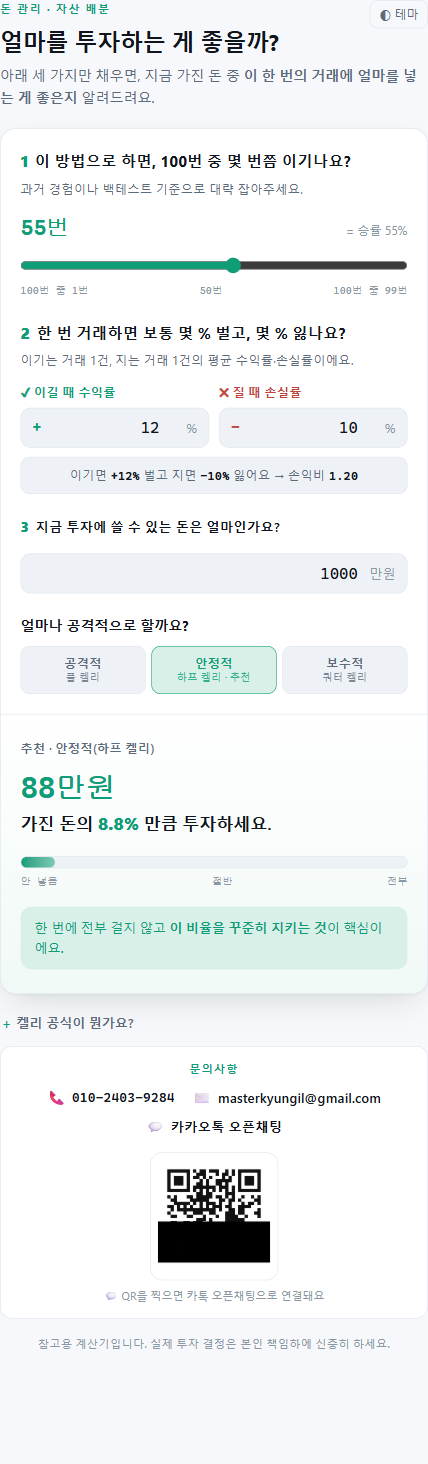
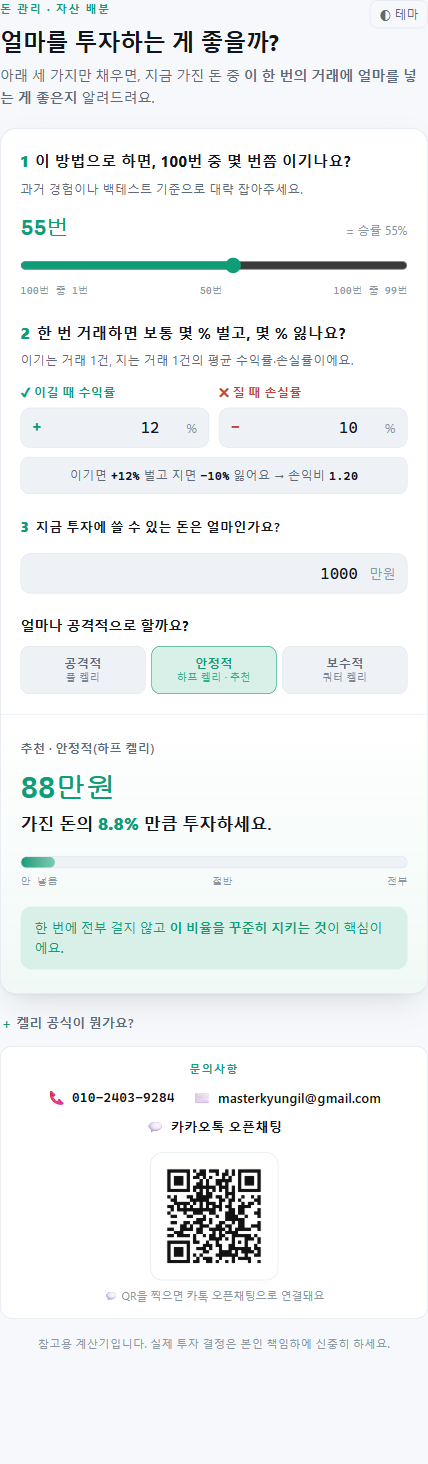
QR 데이터 손상 수정 + README 정리
- 페이지에 삽입된 카카오 QR base64가 중간에서 잘려 하단이 깨지던 문제를
  전체 base64로 정확히 재삽입해 해결(스크립트 교체).
- 깨진 QR로 찍혔던 미리보기 스크린샷 2장 재촬영.
- README에서 (주인용) 직접 수정·실행하기 섹션 제거.

Claude-Session: https://claude.ai/code/session_01FZm6cmTTPNX4JYYx43aVqA

Changed region(s): [[0.3645, 0.8299, 0.6379, 0.8607]]

diff --git a/index.html b/index.html
@@ -254,7 +254,7 @@
     </div>
     <div class="c-qr">
       <a href="https://open.kakao.com/o/sUVx4Oli" target="_blank" rel="noopener" aria-label="카카오톡 오픈채팅 QR코드">
[2 lines of base64/hex data omitted]
       </a>
       <p class="c-qr-cap">💬 QR을 찍으면 카톡 오픈채팅으로 연결돼요</p>
     </div>

diff --git a/README.md b/README.md
@@ -115,18 +115,6 @@ $$f = \frac{p \times b - q}{b}$$
 
 > 즉, 링크를 아무리 널리 공유해도 **남이 이 페이지나 코드를 이상하게 바꿔놓을 수 없습니다.** 방문자는 계산기를 사용만 할 수 있어요.
 
-## 📂 (주인용) 직접 수정·실행하기
-
-내 컴퓨터에 이미 있는 `kelly-site` 폴더에서 `index.html`을 고친 뒤:
-
-```bash
-git add .
-git commit -m "내용 수정"
-git push
-```
-
-푸시하면 몇 분 뒤 사이트에 자동 반영됩니다. (`index.html`은 브라우저로 그냥 열어도 바로 실행돼요.)
-
 ---
 
 <p align="center"><sub>Made with 켈리 공식 · 참고용 계산기입니다</sub></p>
